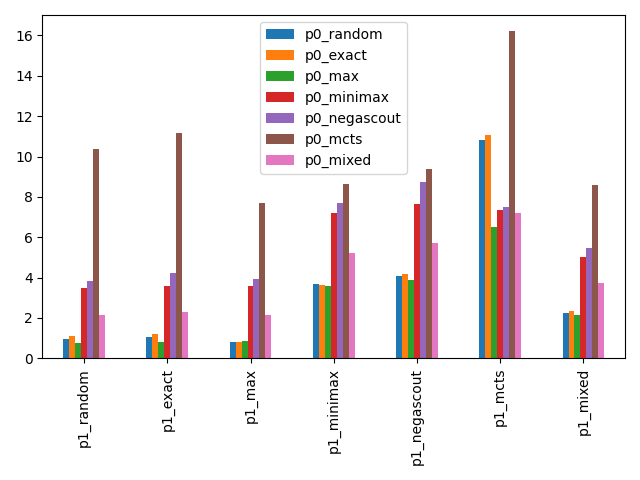
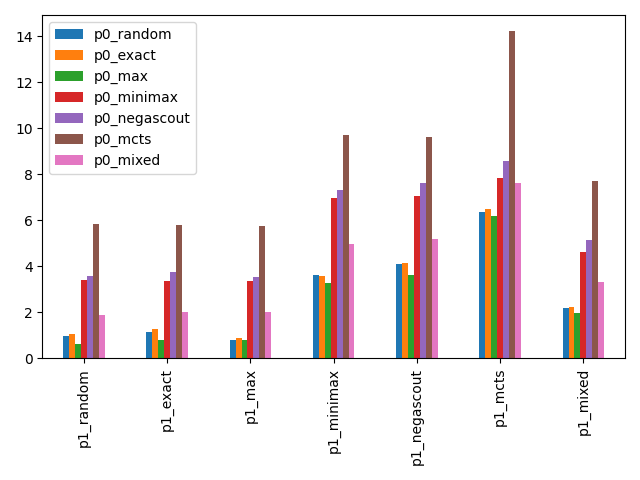
Fixed MCTS Depth Implementation

diff --git a/mancala/agents/montecarlo.py b/mancala/agents/montecarlo.py
@@ -8,10 +8,12 @@ import numpy as np
 from mancala.agents.base import BaseAgent
 from mancala.state.base import BaseState
 
-class MCTSRootNode():
-    def __init__(self, state: BaseState, sims: int = 100, parent = None, parent_action = None):
+
+class MCTSRootNode:
+    def __init__(self, state: BaseState, depth: int, sims: int = 50, parent=None, parent_action=None):
         self.state = state.clone()
         self.max_sims = sims
+        self.depth = depth
         self.parent = parent
         self.parent_act = parent_action
         self._untried_actions = self.state.legal_actions(self.state.turn)
@@ -22,6 +24,10 @@ class MCTSRootNode():
         self._results[-1] = 0
 
     def select(self):
+        """
+        Checks if all possible initial actions have been attempted.
+        If not, it chooses an unattempted action, else it chooses the calculated best child.
+        """
         child = self
         if not self.state._done:
             if len(self._untried_actions) != 0:
@@ -31,6 +37,10 @@ class MCTSRootNode():
         return child
 
     def expand(self):
+        """
+        Spreads the search tree into a new child that hasn't been visited.
+        Sets up child data class for tracking wins.
+        """
         action = self._untried_actions.pop()
         next_state = self.state.clone().proceed_action(action)
         child = MCTSChildNode(next_state, action)
@@ -38,45 +48,57 @@ class MCTSRootNode():
         return child
 
     def simulate(self, child):
+        """
+        Uses cloned states to run a random simulation of a game from the child.
+        Returns the player that won the simulation.
+        """
         sim_state = child.state.clone()
-        while not sim_state._done:
+        depth = self.depth
+        while not depth == 0 and not sim_state._done:
             legal_actions = sim_state.legal_actions(sim_state.turn)
             if legal_actions is not None:
                 action = legal_actions[np.random.randint(len(legal_actions))]
                 sim_state = sim_state.proceed_action(action)
+                depth -= 1
             else:
                 sim_state = sim_state.proceed_action(None)
-        return sim_state._winner
+        return sim_state.scores[child.state.turn - 1] - sim_state.scores[child.state.turn]
 
-    def backpropagate(self, child, winner):
+    def backpropagate(self, child, reward):
+        """
+        Tallies the wins/losses of a child and how many attempts the child has had.
+        """
         self._num_sims += 1
         child.visits += 1
-        if winner == self.state.turn:
-            child.wins += 1
-        else:
-            child.losses += 1
+        child.reward += reward
 
     def best_child(self, constant=0.1):
-        action_weights = [(((a.wins - a.losses) / a.visits) + constant * (np.sqrt(np.log10(self._num_sims) / a.visits))) for a in
+        """
+        Returns list of UCB formula weights
+        """
+        action_weights = [((a.reward / a.visits) + constant * (np.sqrt(np.log10(self._num_sims) / a.visits))) for a in
                           self.children]
         return self.children[np.argmax(action_weights)]
 
     def choose_action(self):
+        """
+        Runs the loop and generates what probabilistically will be the best choice.
+        """
         for i in range(self.max_sims):
             child = self.select()
-            winner = self.simulate(child)
-            self.backpropagate(child, winner)
+            reward = self.simulate(child)
+            self.backpropagate(child, reward)
 
         return self.best_child().action
+
 
 @dataclass
 class MCTSChildNode:
     state: BaseState
     action: int
     visits: int = 0
-    wins: int = 0
-    losses: int = 0
-    draws: int = 0
+    reward: int = 0
+
 
 class MCTSAgent(BaseAgent):
     """Agent with random choice policy"""
@@ -91,5 +113,5 @@ class MCTSAgent(BaseAgent):
         legal_actions = state.legal_actions(state.turn)
         if legal_actions is None:
             return None
-        root = MCTSRootNode(state, sims=self._depth*2)
+        root = MCTSRootNode(state, self._depth)
         return root.choose_action()
